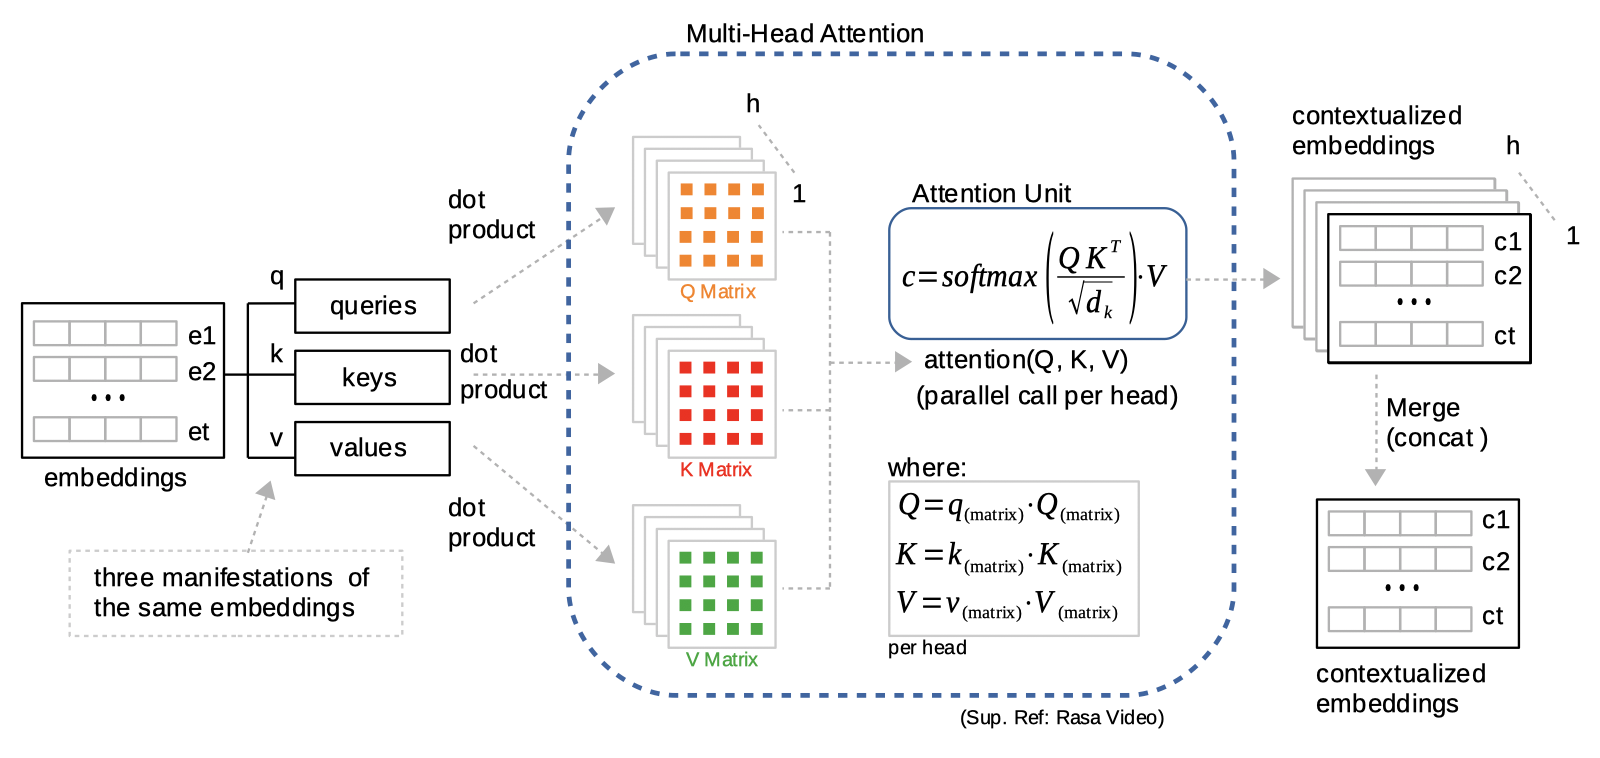
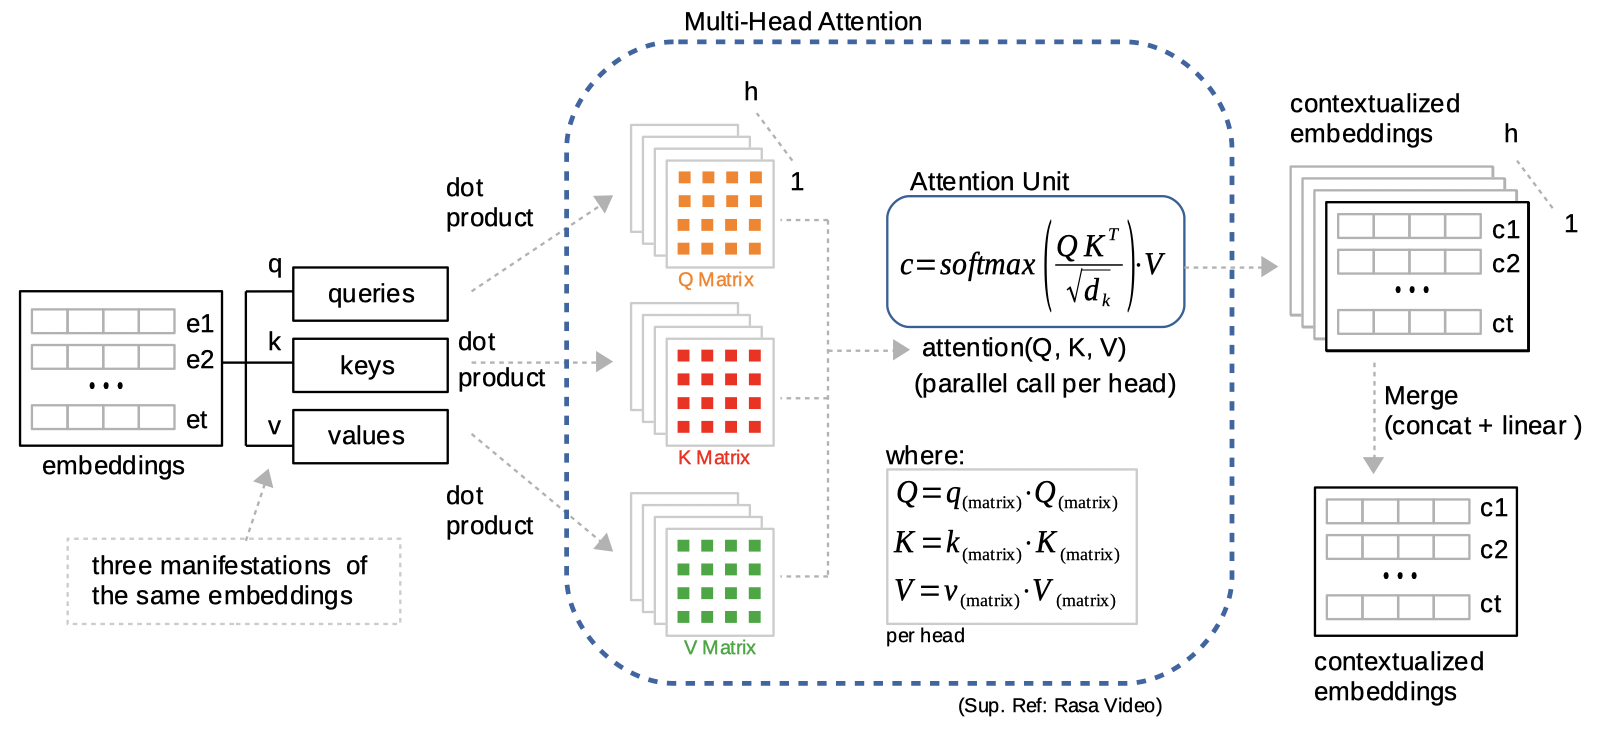
reshaping

diff --git a/13.5-transformer-neural-network-tnn.html b/13.5-transformer-neural-network-tnn.html
@@ -1084,7 +1084,7 @@ Figure 13.22: Multi-Head Attention
 <a class="sourceLine" id="cb2158-5" data-line-number="5">}</a></code></pre></div>
 <p>The dimension is [5, 4, 5].</p>
 
-<p>Note that the output of the multi-head attention is a list of <strong>contextualized</strong> matrices. The list has a size equal to the number of heads. To obtain only one <strong>contextualized matrix</strong> with the same dimension as the original embedding, we need to merge the list. The proposed <strong>merge</strong> approach is to concatenate and then run through a dense FC layer, reshaping the output in the output layer, then using softmax past the output layer.</p>
+<p>Note that the output of the multi-head attention is a list of <strong>contextualized</strong> matrices. The list has a size equal to the number of heads. To obtain only one <strong>contextualized matrix</strong> with the same dimension as the original embedding, we need to merge the list. The <strong>merge</strong> approach is to concatenate and then run through a linear layer, reshaping into the original size in the output layer, then using softmax past the output layer.</p>
 <p><strong>Multihead Attention</strong> is seen in the paper by Ashish Vaswani et al. <span class="citation">(<a href="bibliography.html#ref-ref1339a">2017</a>)</span>. It is used as one of the core components of a novel <strong>Attention-based</strong> architecture called <strong>Transformer</strong>.</p>
 <p>Before we jump to <strong>Transformers</strong>, let us discuss a few essential topics, focusing on <strong>sequence-to-sequence</strong> applications. Among many others, we need to build our intuition around the following topics:</p>
 <ul>
